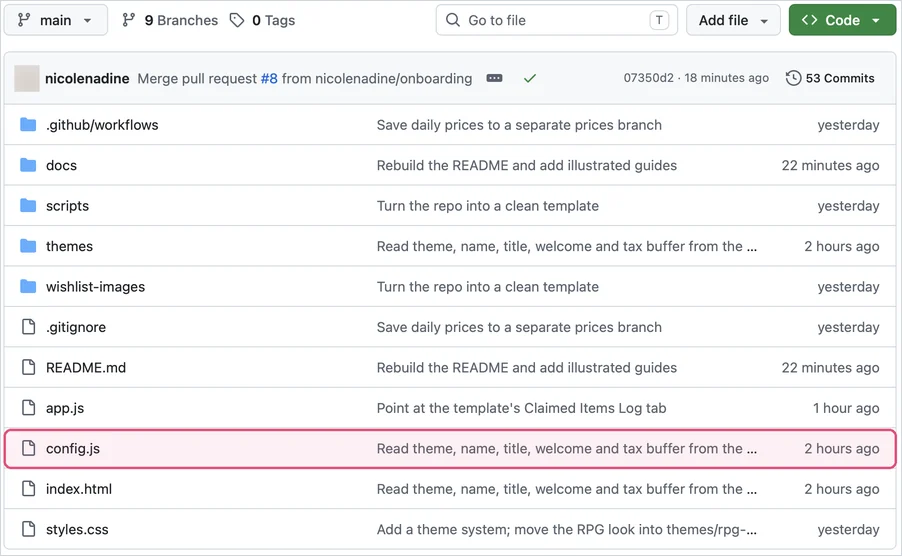
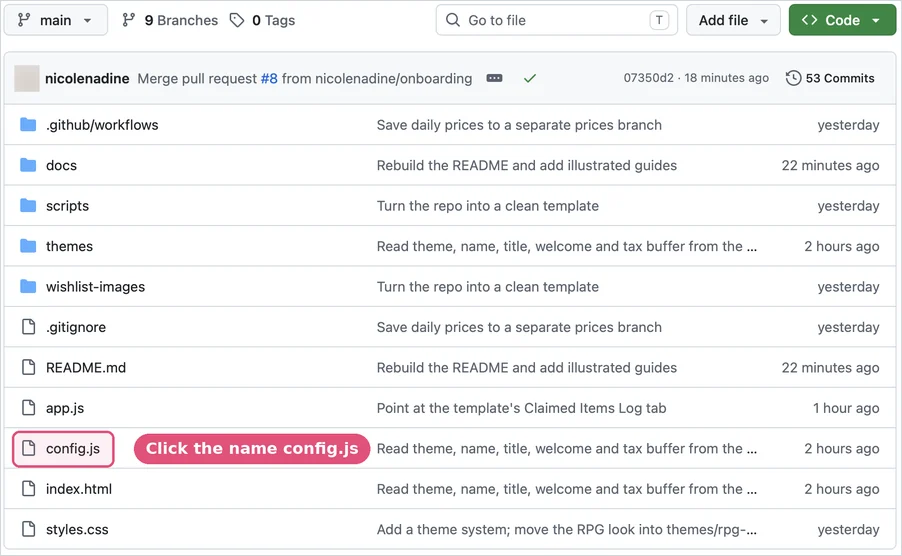
Setup guide: keep the guide open, clearer config.js step
From watching a first-time setup: links replaced the guide, and the
config.js screenshot boxed the whole row, so the commit message got
clicked instead of the file.

Claude-Session: https://claude.ai/code/session_01KcbHJHLAeV7CzNQwkZzVyr

Changed region(s): [[0.0, 0.7644, 1.0, 0.8561]]

diff --git a/README.md b/README.md
@@ -46,6 +46,8 @@ You update it by editing the spreadsheet. There's nothing to install and nothing
 
 > [!NOTE]
 > You'll need a free Google account and a free [GitHub account](https://github.com/signup). No coding and no downloads. The [illustrated setup guide](docs/setup.md) walks through every click.
+>
+> **Tip:** open the buttons below with **Ctrl-click** (**⌘-click** on a Mac) so this page stays open while you work.
 
 **1. Copy the spreadsheet.** It comes with example items, a **Settings** tab and a **How to use** tab.
 
@@ -57,7 +59,7 @@ You update it by editing the spreadsheet. There's nothing to install and nothing
 
 [![Fork this repo](https://img.shields.io/badge/Fork_this_repo-24292F?style=for-the-badge&logo=github&logoColor=white)](https://github.com/nicolenadine/wishlist/fork)
 
-**4. Connect the two.** In your copy on GitHub, open `config.js`, click the pencil icon, paste your sheet link between the quotes after `sheetUrl:`, and click **Commit changes**. That's the only file you ever need to edit.
+**4. Connect the two.** In your copy on GitHub, click the name `config.js` in the file list (the name itself, not the grey text beside it), click the pencil icon, paste your sheet link between the quotes after `sheetUrl:`, and click **Commit changes**. That's the only file you ever need to edit.
 
 **5. Turn on the website.** Go to **Settings → Pages**, set the branch to `main` and the folder to `/ (root)`, and click **Save**. In a minute or two your list is live at `https://your-username.github.io/wishlist/`.
 

diff --git a/docs/setup.md b/docs/setup.md
@@ -15,6 +15,9 @@ This takes about 10 minutes, and you don't need to know any code. By the end you
 | 5 | [Turn on the website](#5-turn-on-the-website) | GitHub | 2 min |
 | 6 | [Make it yours](#6-make-it-yours) | Google Sheets | as long as you like |
 
+> [!TIP]
+> **Keep this guide open as you go.** GitHub can't open links in a new tab for you, so open the buttons below with **Ctrl-click** (**⌘-click** on a Mac, or press and hold on a phone and choose **Open in New Tab**). Then you can switch back here instead of retracing your steps.
+
 ---
 
 ## 1. Copy the spreadsheet
@@ -58,7 +61,7 @@ Sign in to GitHub if it asks, then click **Create fork**. "Fork" is GitHub's wor
 
 ## 4. Connect the two
 
-1. On your copy's page, click the file named **config.js**.
+1. On your copy's page, click the name **config.js** in the list of files. Click the name itself, on the left: the grey text beside it opens a different page (if you land there, just go back).
 2. Click the **pencil icon** (top right of the file) to edit it.
 3. Find the line that starts with `sheetUrl:`. Replace the link between the quotes with the one you copied in step 2. Keep the quotes.
 4. Click **Commit changes…**, then **Commit changes** again.
